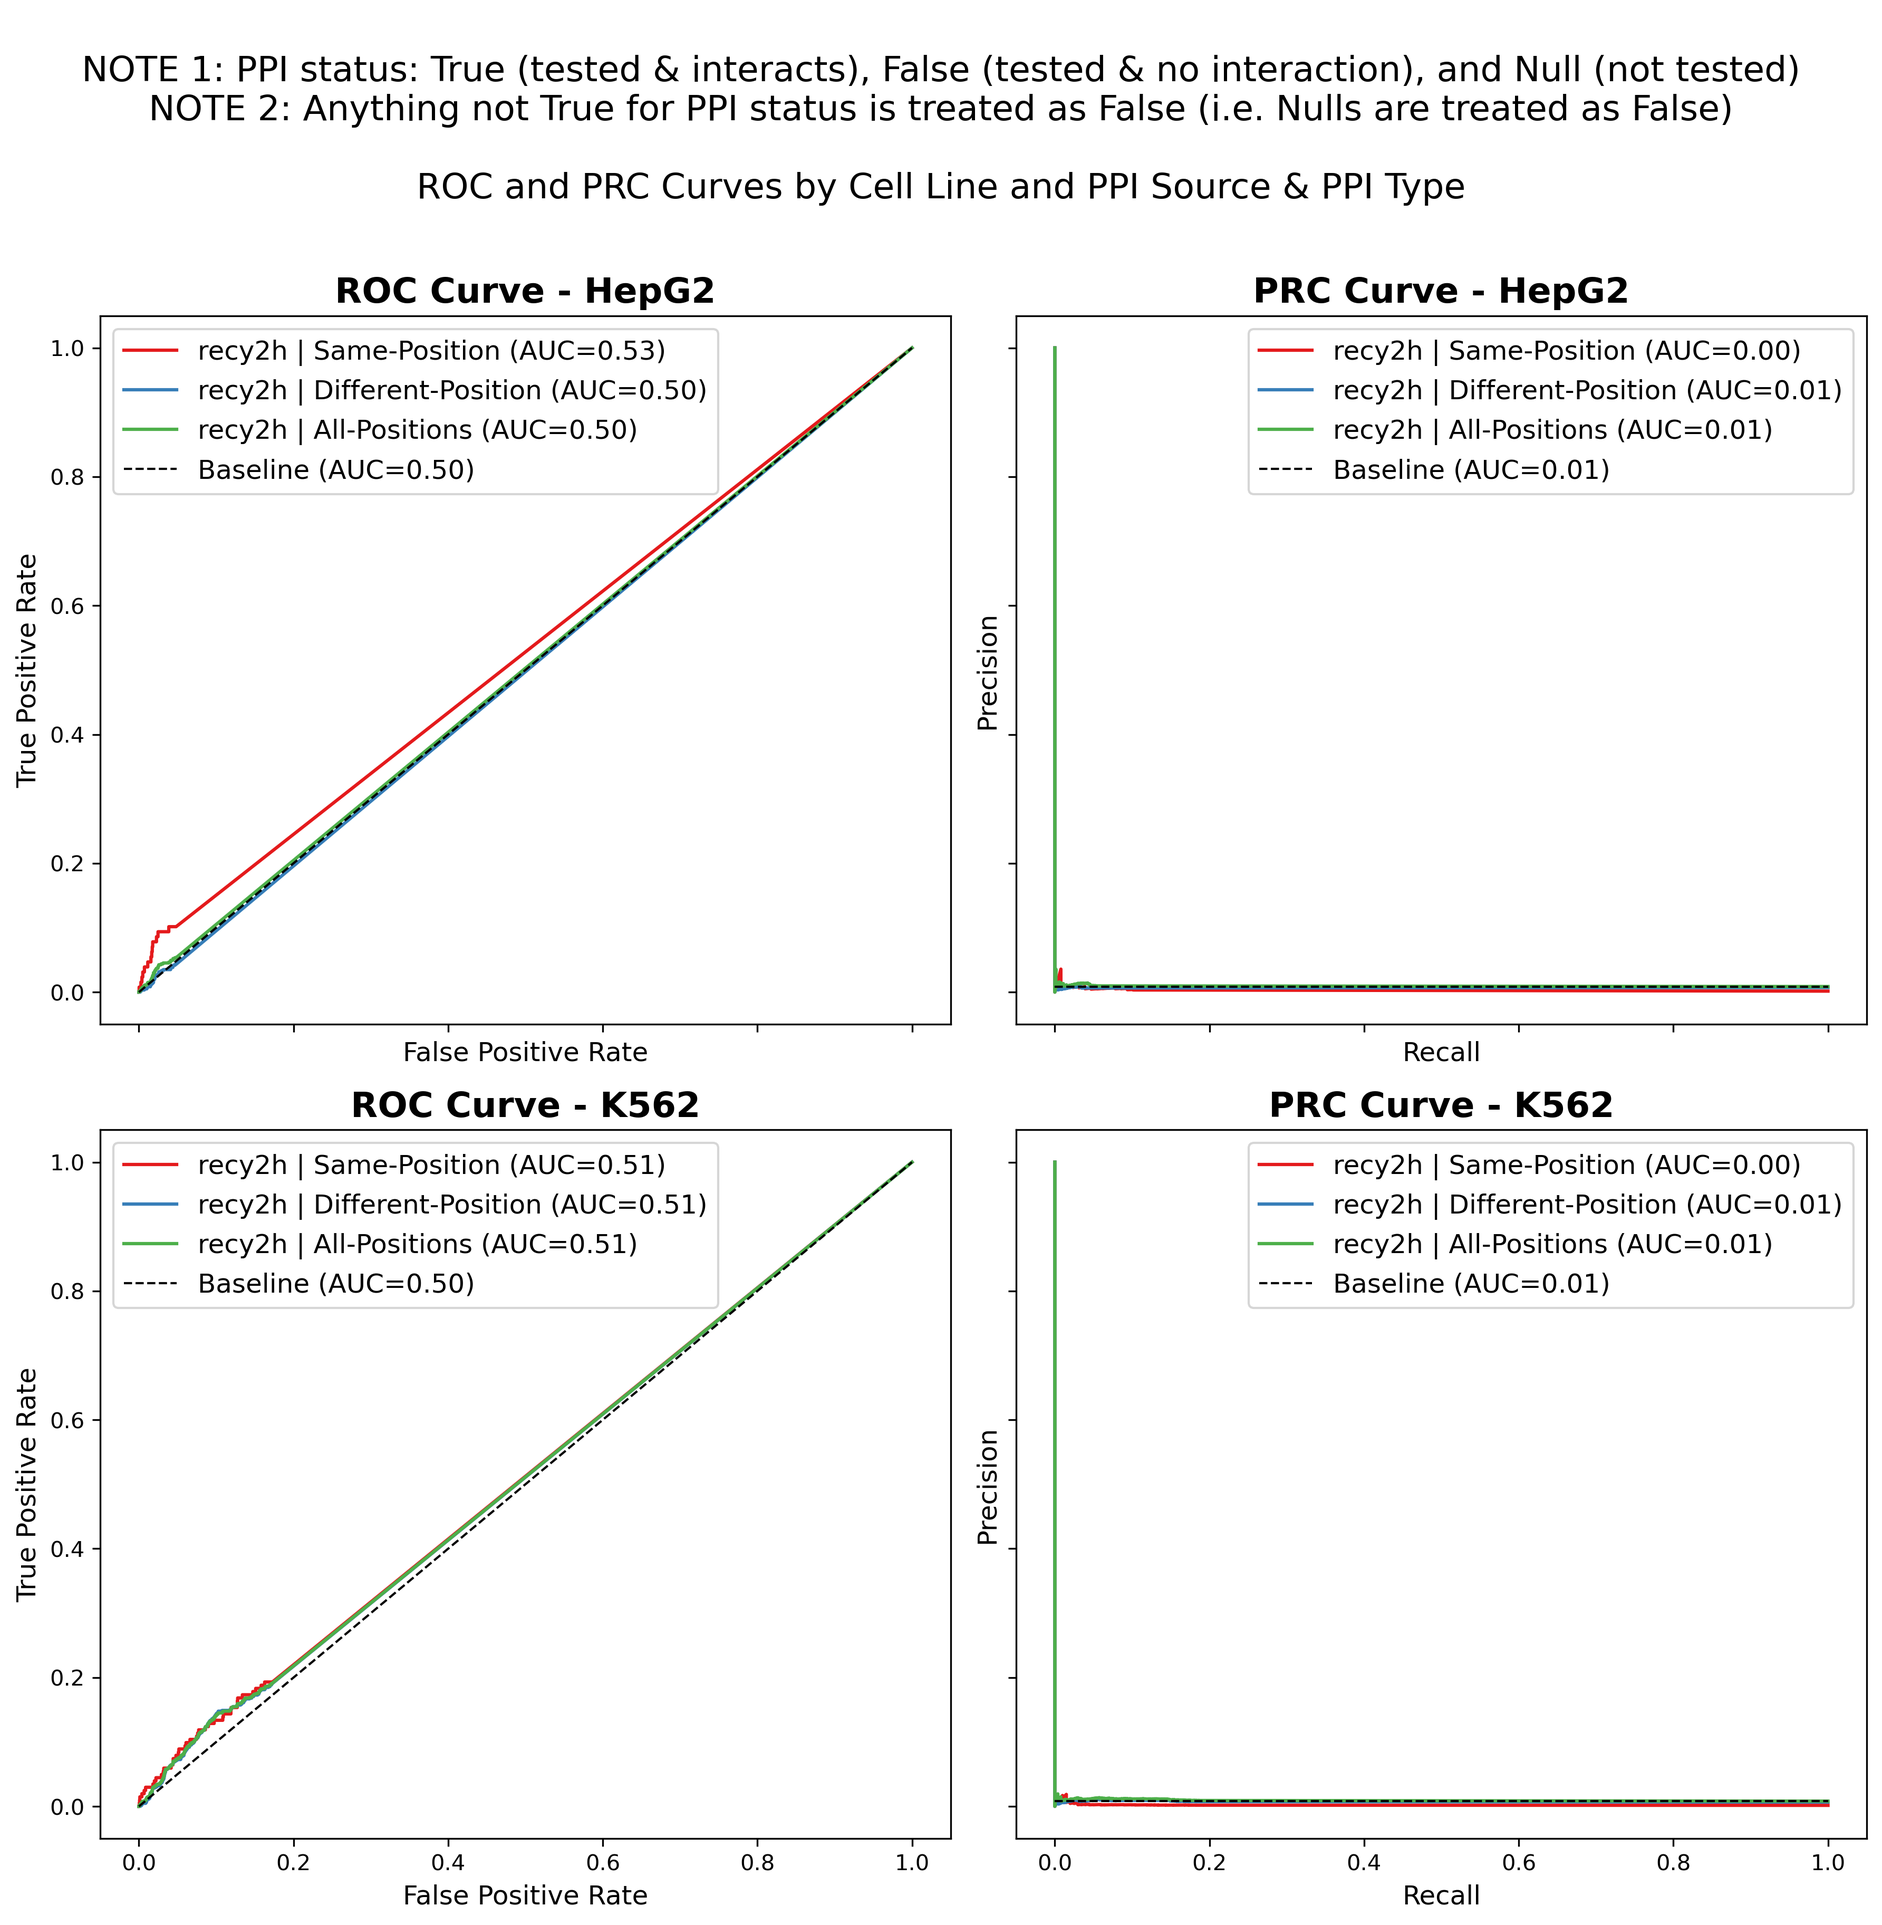
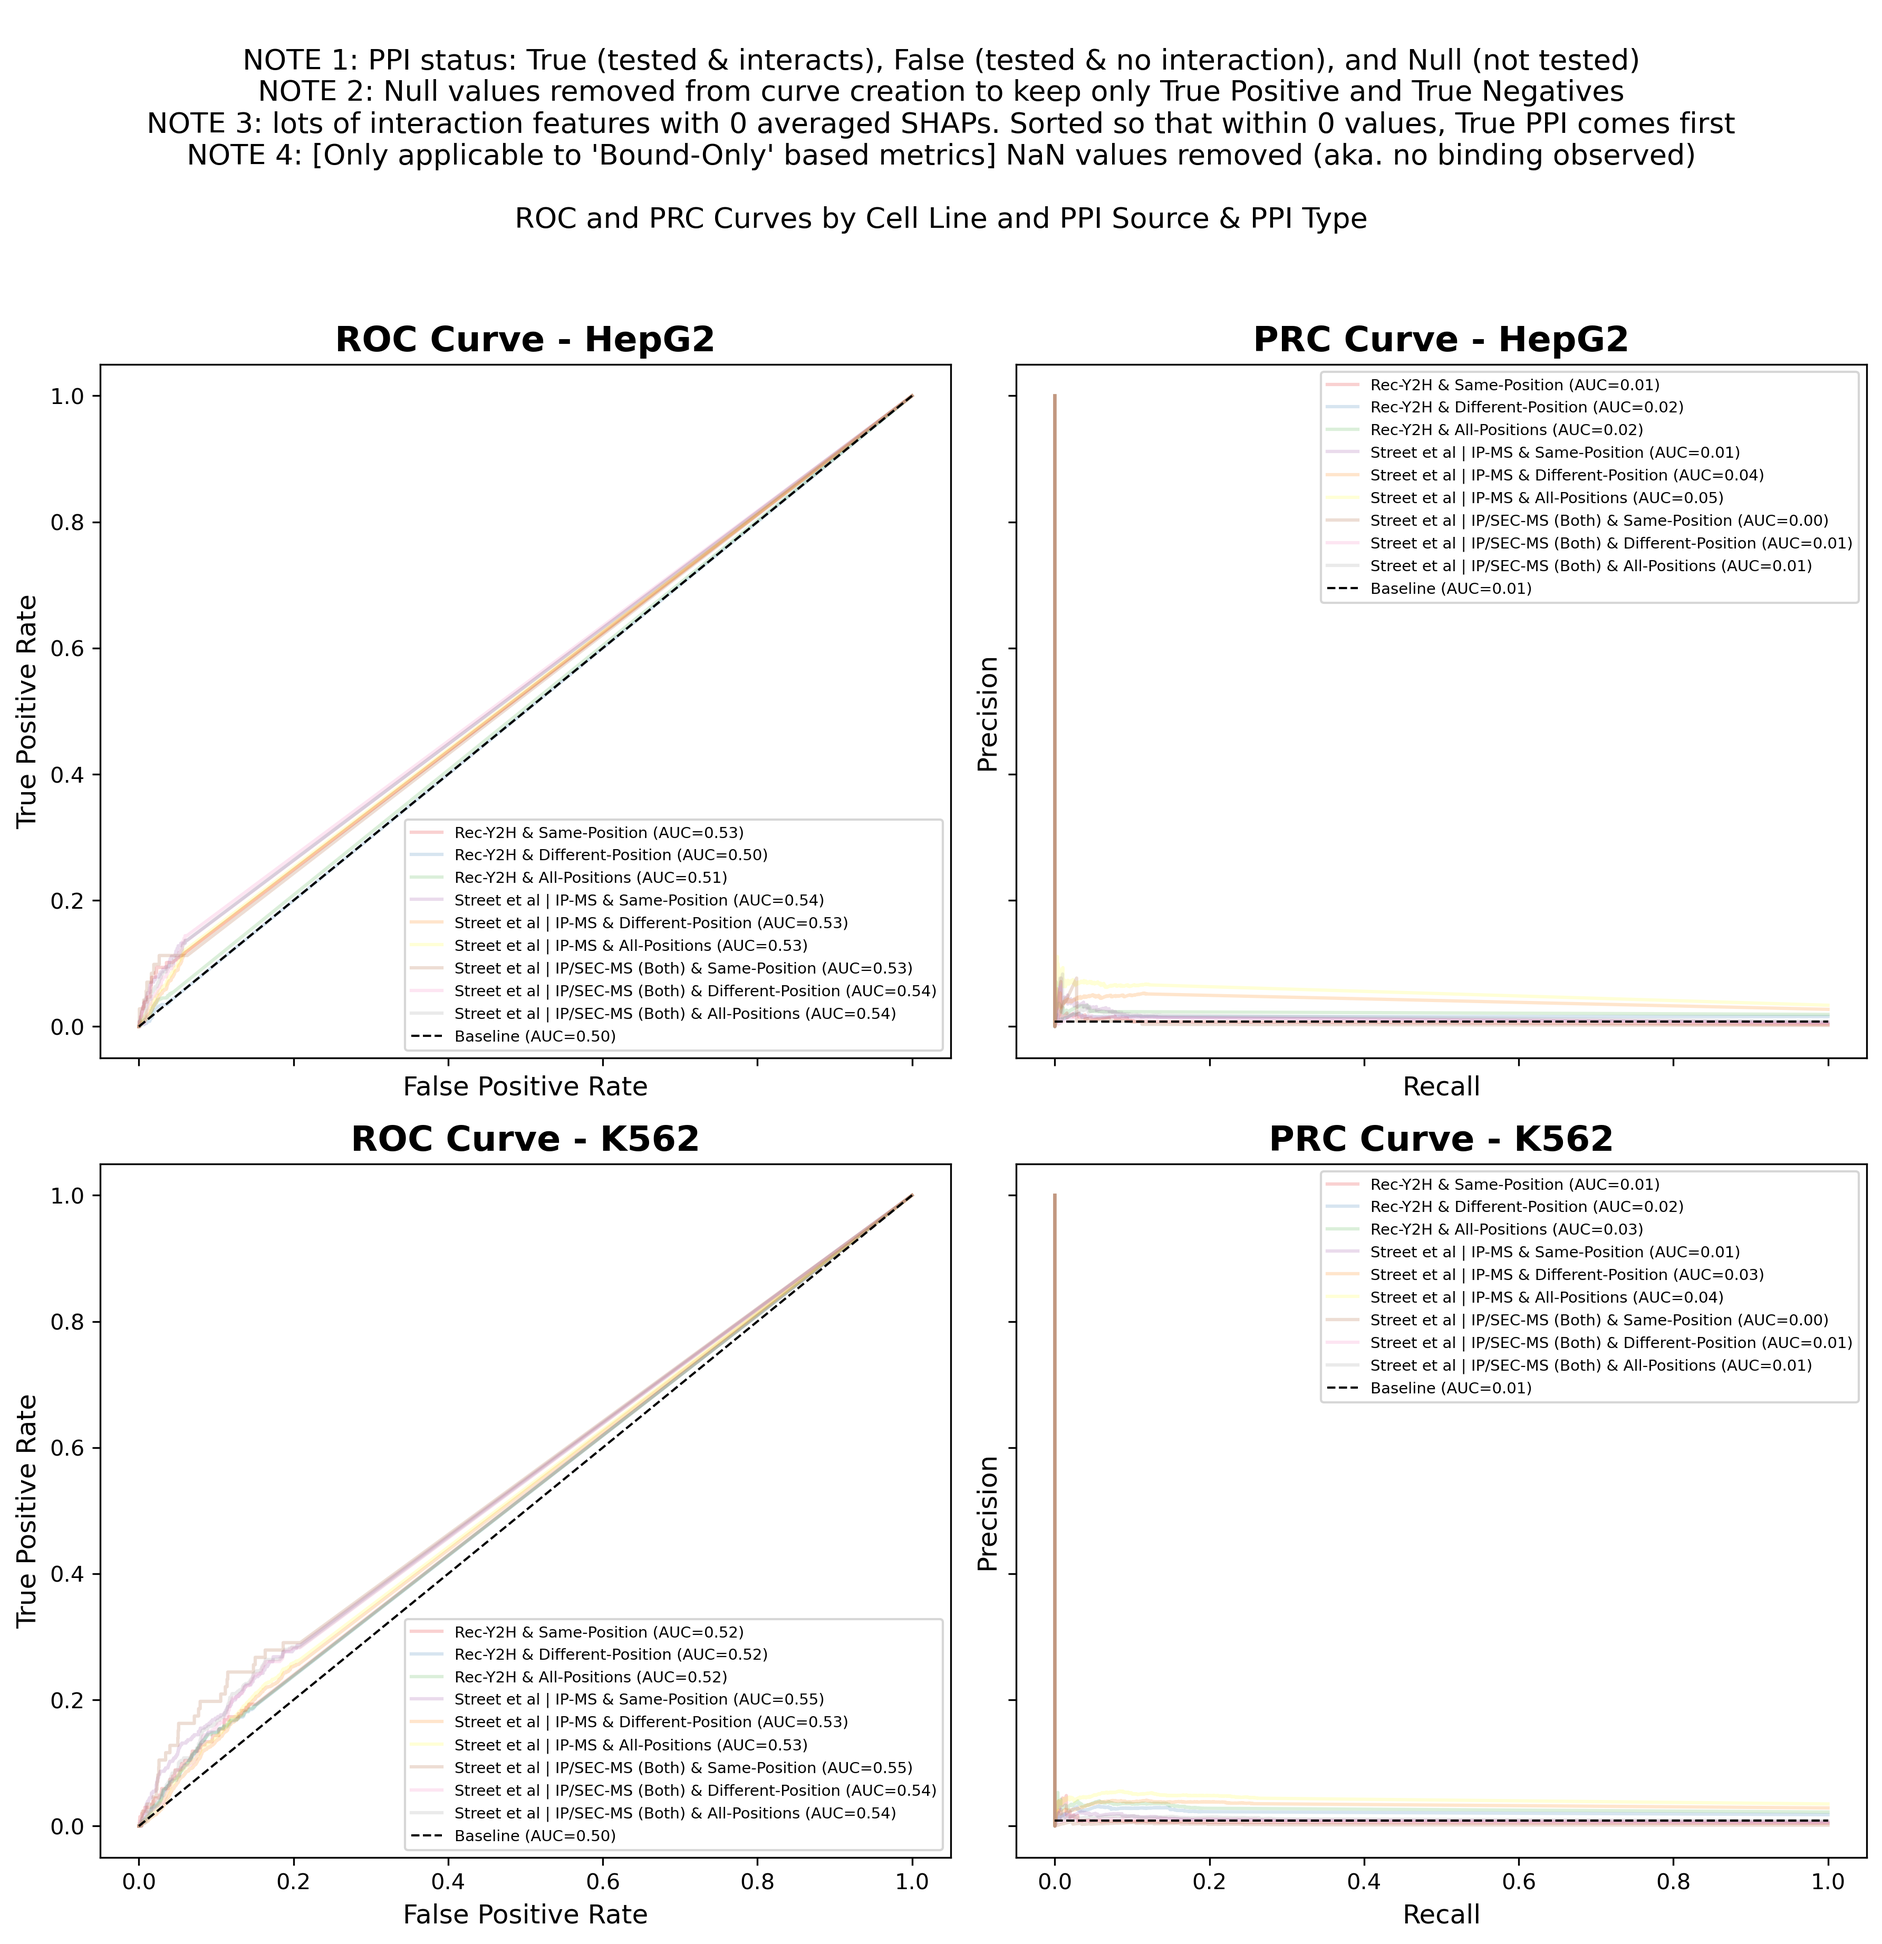
updates to roc prc curve plots: [1] MOST IMPORTANT -- remove not tested ("None") values from curve, [2] run detailed assertions for precision sake, [3] make line alphas smaller to be able to view each curve , [4] with more curves, make legend smaller, [5] update plot notes to reflect changes

diff --git a/analysis/07_second_order_SHAP_analysis/2_analyze_shap_interaction_values/code/2_second_order_shap_analysis.py b/analysis/07_second_order_SHAP_analysis/2_analyze_shap_interaction_values/code/2_second_order_shap_analysis.py
@@ -1323,29 +1323,32 @@ class SecondOrderShapNetworkAnalyzer:
         ppi_sources = self.CONFIG["PPI_SOURCES"]
         ppi_types = self.CONFIG["PPI_TYPES"]
 
-        abs_shap = table[f"Value - {metric}"].abs()
-
         result_dict = {}
         for ppi_source in ppi_sources:
             result_dict[ppi_source] = {}
             for ppi_type in ppi_types:
-                # Custom logic for PPI column
+                # Filter table to only rows where the value of ppi_source column is not "None" string
+                only_tested = table.filter(pl.col(ppi_source) != "None")
+                assert only_tested[ppi_source].n_unique() ==3, f"Expected 3 unique values in column '{ppi_source}' after filtering, found {only_tested[ppi_source].n_unique()}."
+                
+                # All positions means any position with interaction
                 if ppi_type == "All-Positions":
-                    ppi_bool = table[f"{ppi_source} | PPI Type"].str.contains("-Position")
+                    ppi_bool = (only_tested[ppi_source].str.ends_with("-Position"))
                 else:
-                    ppi_bool = (table[f"{ppi_source} | PPI Type"] == ppi_type)
+                    ppi_bool = (only_tested[ppi_source] == ppi_type)
+
+                abs_shap = only_tested[f"Value - {metric}"].abs().to_list()
+                assert len(abs_shap) == len(ppi_bool) == only_tested["Cell Line"].shape[0], "Length mismatch between abs_shap, ppi_bool, and Cell Line column."
                 
                 # Build polars DataFrame and include Cell Line column
                 df = pl.DataFrame({
                     "Abs. SHAP Value": abs_shap,
                     "PPI": ppi_bool,
-                    "Cell Line": table["Cell Line"]
+                    "Cell Line": only_tested["Cell Line"]
                 })
 
                 # Remove rows where "Abs. SHAP Value" is NaN
                 df = df.filter(~pl.col("Abs. SHAP Value").is_nan())           
-                # Sort by absolute SHAP value descending
-                df = df.sort("Abs. SHAP Value", descending=True)
 
                 # Assert no nulls in "Abs. SHAP Value"
                 assert df["Abs. SHAP Value"].null_count() == 0, "Nulls found in 'Abs. SHAP Value' column."
@@ -1353,12 +1356,17 @@ class SecondOrderShapNetworkAnalyzer:
                 assert (df["Abs. SHAP Value"] >= 0).all(), "Negative values found in 'Abs. SHAP Value' column."
                 # Assert no nulls or NaNs in "PPI" column
                 assert df["PPI"].null_count() == 0, "Nulls found in 'PPI' column."
+                # Assert every value in "PPI" is exactly True or False (boolean)
+                assert all(val == True or val == False for val in df["PPI"].to_list()), "Non-boolean values found in 'PPI' column."
+                # Assert that there is at least one True value in the "PPI" column
+                assert df["PPI"].sum() > 0, f"No True values found in 'PPI' column for {ppi_source} & {ppi_type}"
                 
                 result_dict[ppi_source][ppi_type] = df
-        
-        # Assert that all DataFrames have the same number of values
-        num_values = [result_dict[source][ppi_type].shape[0] for source in result_dict for ppi_type in result_dict[source]]
-        assert len(set(num_values)) == 1, f"Mismatch in number of values across all DataFrames: {num_values}"
+
+        # Assert that for each PPI source, all PPI types have the same number of rows
+        for source in result_dict:
+            num_values = [result_dict[source][ppi_type].shape[0] for ppi_type in result_dict[source]]
+            assert len(set(num_values)) == 1, f"Mismatch in number of values for PPI source '{source}': {num_values}"
 
         cell_lines = self.CONFIG["CELL_LINES"]
         curve_types = ["roc", "prc"]
@@ -1375,19 +1383,23 @@ class SecondOrderShapNetworkAnalyzer:
                 for ppi_source in ppi_sources:
                     for ppi_type in ppi_types:
                         df = result_dict[ppi_source][ppi_type]
-                        # Filter for current cell line
-                        df_cl = df.filter(pl.col("Cell Line") == cell_line)
+
+                        # Filter for current cell line and then sort by "Abs. SHAP Value" descending, then by "PPI" descending
+                        df_cl = df.filter(pl.col("Cell Line") == cell_line).sort(["Abs. SHAP Value", "PPI"], descending=True)
+
+                        logger.info(f"Cell line: {cell_line}, PPI source: {ppi_source}, PPI type: {ppi_type}, Curve: {curve_type}, N points: {df_cl.shape[0]}")
+                        
                         y_true = df_cl["PPI"].to_numpy()
                         y_score = df_cl["Abs. SHAP Value"].to_numpy()
                         
                         if curve_type == "roc":
                             fpr, tpr, _ = roc_curve(y_true, y_score)
                             roc_auc = auc(fpr, tpr)
-                            ax.plot(fpr, tpr, label=f"{ppi_source} | {ppi_type} (AUC={roc_auc:.2f})")
+                            ax.plot(fpr, tpr, label=f"{ppi_source} & {ppi_type} (AUC={roc_auc:.2f})", alpha=0.2)
                         else:
                             precision, recall, _ = precision_recall_curve(y_true, y_score)
                             prc_auc = auc(recall, precision)
-                            ax.plot(recall, precision, label=f"{ppi_source} | {ppi_type} (AUC={prc_auc:.2f})")
+                            ax.plot(recall, precision, label=f"{ppi_source} & {ppi_type} (AUC={prc_auc:.2f})", alpha=0.2)
                 
                 if curve_type == "roc":
                     ax.plot([0, 1], [0, 1], 'k--', lw=1, label="Baseline (AUC=0.50)")
@@ -1402,13 +1414,15 @@ class SecondOrderShapNetworkAnalyzer:
                     ax.set_ylabel("Precision", fontsize=12)
                     ax.set_title(f"PRC Curve - {cell_line}", fontweight='bold', fontsize=16)
                 
-                ax.legend(loc="best", fontsize=12, frameon=True)
+                ax.legend(loc="best", fontsize=7, frameon=True)
         
         fig.suptitle(
             "\nNOTE 1: PPI status: True (tested & interacts), False (tested & no interaction), and Null (not tested)" + 
-            "\nNOTE 2: Anything not True for PPI status is treated as False (i.e. Nulls are treated as False)" +
+            "\nNOTE 2: Null values removed from curve creation to keep only True Positive and True Negatives" +
+            "\nNOTE 3: lots of interaction features with 0 averaged SHAPs. Sorted so that within 0 values, True PPI comes first" +
+            "\nNOTE 4: [Only applicable to 'Bound-Only' based metrics] NaN values removed (aka. no binding observed)" +
             "\n\nROC and PRC Curves by Cell Line and PPI Source & PPI Type", 
-            fontsize=16, y=1.01
+            fontsize=13, y=1.02
         )
 
         plt.tight_layout()
